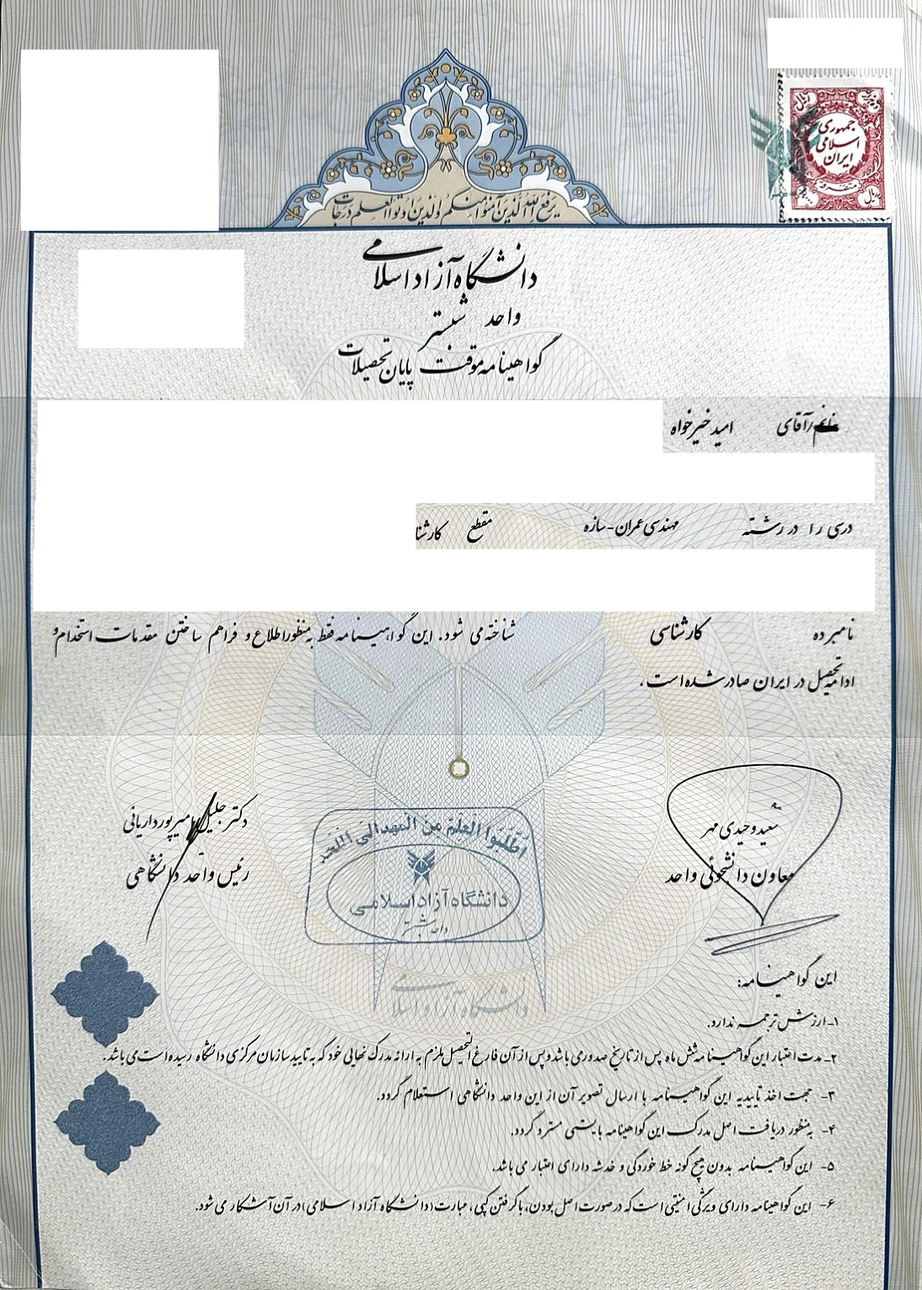
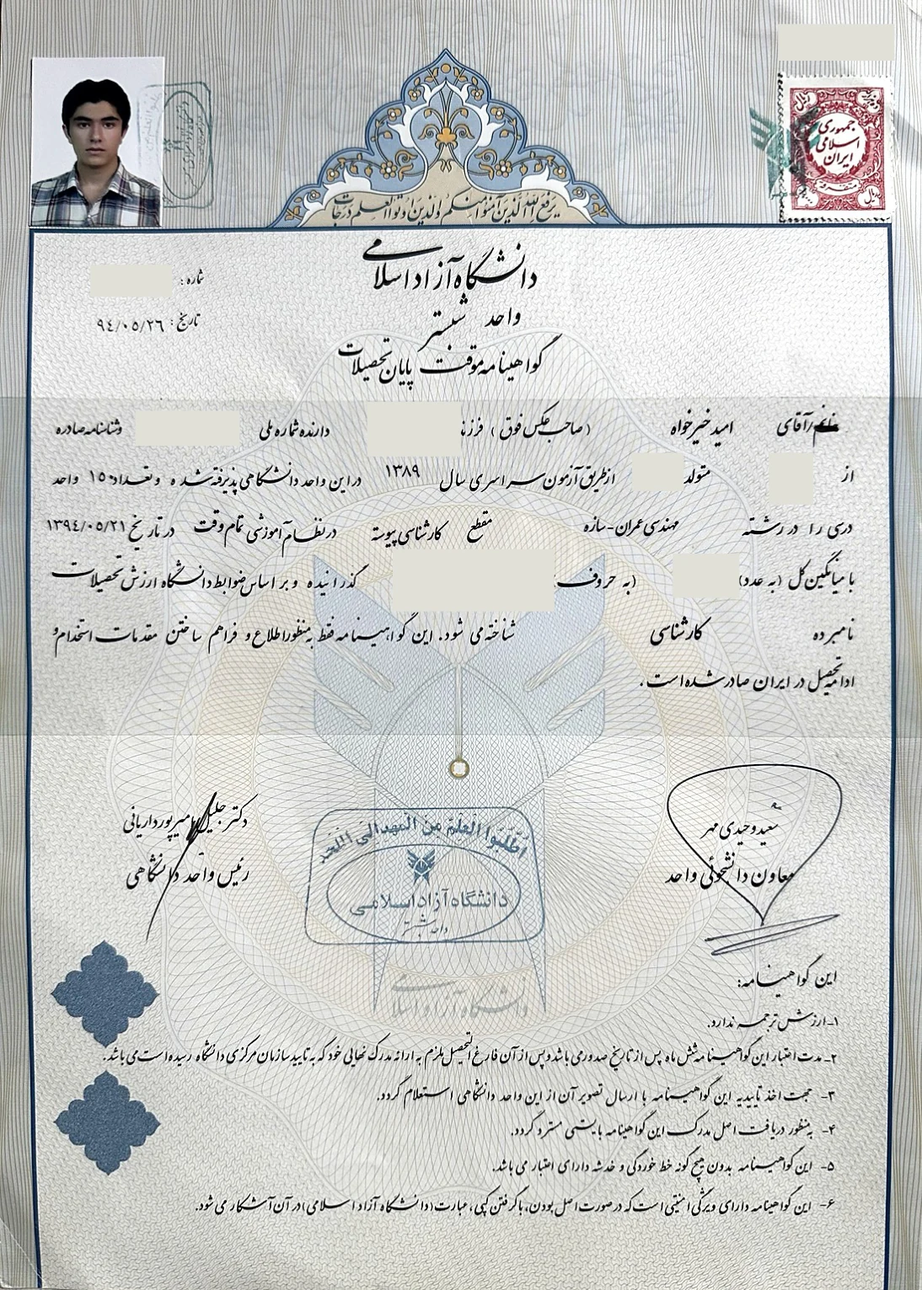
Refine diploma redactions and integrate credentials into About with digital focus

Changed region(s): [[0.0311, 0.307, 0.9634, 0.4912], [0.0, 0.0307, 0.2797, 0.2763], [0.808, 0.0, 0.9945, 0.0614]]

diff --git a/index.html b/index.html
@@ -324,7 +324,7 @@ main,.scene,.hub-body,.worlds,.bk-wrap,.iletisim-wrap,.kesifet-wrap{width:100%;m
 .civil-article:focus-visible{outline:2px solid var(--gold);outline-offset:5px}
 @media(max-width:700px){.civil-grid{grid-template-columns:1fr}.civil-article{padding:24px}}
 </style>
-<link href="site-refinement.css?v=20260916-credentials" rel="stylesheet"/><noscript><style>.scene{display:block!important;opacity:1!important;transform:none!important}.hero-avatar,.hero-tag,.hero-lead,.hero-stats,.hero-arch,.worlds-head,.wcard,.hub-contact{opacity:1!important;transform:none!important}.hero-h .ln>span{transform:none!important}#menuBtn,.article-search,.art-filters,.result-count{display:none!important}</style></noscript></head>
+<link href="site-refinement.css?v=20260916-about-v2" rel="stylesheet"/><noscript><style>.scene{display:block!important;opacity:1!important;transform:none!important}.hero-avatar,.hero-tag,.hero-lead,.hero-stats,.hero-arch,.worlds-head,.wcard,.hub-contact{opacity:1!important;transform:none!important}.hero-h .ln>span{transform:none!important}#menuBtn,.article-search,.art-filters,.result-count{display:none!important}</style></noscript></head>
 <body><a class="skip-link" href="#main-content">رفتن به محتوای اصلی</a>
 <!-- PARTICLES -->
 <div class="particles" id="particles"></div>
@@ -336,7 +336,6 @@ main,.scene,.hub-body,.worlds,.bk-wrap,.iletisim-wrap,.kesifet-wrap{width:100%;m
 <a class="menu-item" data-goto="civil" href="#civil">مهندسی عمران</a>
 <a class="menu-item" data-goto="universiteler" href="#universiteler">دانشگاهها</a>
 <a class="menu-item" data-goto="benkimim" href="#benkimim">درباره من</a>
-<a class="menu-item" data-goto="credentials" href="#credentials">سوابق و مدارک</a>
 <a class="menu-item" data-goto="iletisim" href="#iletisim">تماس</a>
 <div class="menu-socials">
 <a href="mailto:omid@omidkheirkhah.com">ایمیل</a>
@@ -346,7 +345,7 @@ main,.scene,.hub-body,.worlds,.bk-wrap,.iletisim-wrap,.kesifet-wrap{width:100%;m
 <!-- NAV -->
 <nav aria-label="پیمایش اصلی" class="site-nav">
 <a data-goto="hub" href="#hub" id="logo">دکتر امید خیرخواه</a>
-<div class="desktop-nav"><a data-goto="kesifet" href="#kesifet">مقالات</a><a data-goto="universiteler" href="#universiteler">راهنمای تحصیل</a><a data-goto="benkimim" href="#benkimim">درباره من</a><a data-goto="credentials" href="#credentials">سوابق و مدارک</a><a data-goto="iletisim" href="#iletisim">تماس</a></div><div class="lang-switch">
+<div class="desktop-nav"><a data-goto="kesifet" href="#kesifet">مقالات</a><a data-goto="universiteler" href="#universiteler">راهنمای تحصیل</a><a data-goto="benkimim" href="#benkimim">درباره من</a><a data-goto="iletisim" href="#iletisim">تماس</a></div><div class="lang-switch">
 <a href="https://omidkheirkhah.com">TR</a>
 <a class="active" href="https://fa.omidkheirkhah.com">FA</a>
 </div>
@@ -373,6 +372,7 @@ main,.scene,.hub-body,.worlds,.bk-wrap,.iletisim-wrap,.kesifet-wrap{width:100%;m
 </h1>
 <p class="hero-lead">دندانپزشکی، مهندسی و نوآوری در ظاهر دنیاهای متفاوتیاند؛ اما همگی با یک پرسش آغاز میشوند: مسئله واقعاً از کجا ریشه میگیرد؟ اینجا آموختهها و تجربههایم را شفاف، کاربردی و مستند به اشتراک میگذارم.</p><div class="hero-actions"><a class="button-primary" data-goto="kesifet" href="#kesifet">مطالعهٔ مقالهها</a><a class="button-secondary" data-goto="iletisim" href="#iletisim">شروع گفتوگو</a><p class="hero-note">از شناخت مسئله تا انتخاب آگاهانه</p></div>
 </div>
+<a class="digital-home-banner" data-goto="benkimim" href="#benkimim"><div><span>طراحی سایت · برندینگ · فناوری</span><h2>برای حضور دیجیتال کسبوکارتان، از ایده شروع کنیم.</h2><p>طراحی تجربهٔ کاربری، معرفی برند و راهبری پروژههای دیجیتال.</p></div><strong>آشنایی با زمینههای همکاری <span aria-hidden="true">←</span></strong></a>
 <div class="worlds">
 <div class="worlds-head wrap" id="worldsHead">
 <p class="s-label">چه میکنم، چطور فکر میکنم</p>
@@ -578,10 +578,17 @@ main,.scene,.hub-body,.worlds,.bk-wrap,.iletisim-wrap,.kesifet-wrap{width:100%;m
 <p class="bk-text">در ۱۳۸۹ وارد رشته مهندسی عمران شدم. مهندسی تفکر تحلیلی و حل مسئله سیستماتیک را به من یاد داد. در مرحله پایاننامه کارشناسی ارشد، به صدای درونم گوش دادم و از صفر وارد دندانپزشکی شدم. دو رشته کاملاً متفاوت — اما هر دو همان سؤال را میپرسیدند: <em>سیستمها چطور کار میکنند؟</em></p>
 <p class="bk-text">در سال ۱۳۹۶ تحصیل دندانپزشکی را آغاز کردم و در ۱۴۰۱ فارغالتحصیل شدم. همان سال برنامه دکترا در جراحی دهان و فک و صورت را شروع کردم — که هنوز ادامه دارد.</p>
 <p class="bk-text" style="font-size:.8rem;color:var(--tx-d)">📍 ترکیه · ایران · قبرس</p>
-<a class="button-secondary" data-goto="credentials" href="#credentials">مشاهدهٔ سوابق حرفهای و مدارک</a>
+<p class="about-contents">در همین صفحه: فعالیتهای دیجیتال، سوابق حرفهای، تحصیلات و تصاویر مدارک.</p>
 </div>
 <div>
-<div class="timeline">
+<section class="digital-spotlight" aria-labelledby="digital-title">
+<p class="resume-kicker">طراحی · برندینگ · راهکارهای دیجیتال</p>
+<h2 id="digital-title">ایدهٔ شما،<br/><em>یک تجربهٔ دیجیتال روشن.</em></h2>
+<p class="digital-intro">در کنار دندانپزشکی و مهندسی، در برنامهریزی و راهبری پروژههای دیجیتال فعالیت میکنم؛ با توجه همزمان به ظاهر، پیام برند و کارایی محصول.</p>
+<div class="digital-services"><div><h3>طراحی سایت و تجربهٔ کاربری</h3><p>ساختار روشن، ظاهر هماهنگ و مسیر ساده برای ارتباط مخاطب با کسبوکار.</p></div><div><h3>برندینگ و ارتباطات</h3><p>هویت بصری، معرفی خدمات و پیام منسجم در نقاط تماس دیجیتال.</p></div><div><h3>نرمافزار و راهکارهای هوشمند</h3><p>طراحی خدمات و هماهنگی پروژههای وب، نرمافزار و کاربردهای هوش مصنوعی.</p></div></div>
+<a class="button-primary" data-goto="iletisim" href="#iletisim">گفتوگو دربارهٔ پروژهٔ دیجیتال</a>
+</section>
+<div class="timeline about-timeline">
 <div class="tl-item">
 <div class="tl-year">۱۴۰۱–</div>
 <div class="tl-c"><h4>دکترای جراحی دهان</h4><p>برنامه دکترا در قبرس شمالی. ادامه دارد.</p></div>
@@ -602,12 +609,11 @@ main,.scene,.hub-body,.worlds,.bk-wrap,.iletisim-wrap,.kesifet-wrap{width:100%;m
 </div>
 </div>
 </div>
-</section>
-<section class="scene" id="credentials" aria-labelledby="credentials-title">
+<section id="credentials" aria-labelledby="credentials-title">
 <div class="wrap credentials-wrap">
 <header class="credentials-header">
 <p class="bk-eyebrow">دکتر امید خیرخواه · سوابق حرفهای</p>
-<h1 id="credentials-title">از تجربه و تخصص<br/>تا <em>مدارک و دستاوردها.</em></h1>
+<h2 id="credentials-title">سوابق حرفهای<br/>و <em>مدارک و دستاوردها.</em></h2>
 <p class="credentials-lead">دندانپزشک و مهندس عمران؛ با تجربهٔ فعالیت در آموزش، بازاریابی و پروژههای میانرشتهای. اینجا مسیر تحصیلی، زمینههای همکاری و مدارک حرفهای من را در کنار هم میبینید.</p>
 <div class="credentials-domains" aria-label="حوزههای فعالیت"><span>سلامت</span><span>مهندسی</span><span>آموزش</span><span>فناوری</span></div>
 </header>
@@ -637,7 +643,7 @@ main,.scene,.hub-body,.worlds,.bk-wrap,.iletisim-wrap,.kesifet-wrap{width:100%;m
 <div class="certificate-grid">
 <figure class="certificate-card"><a class="certificate-image" href="assets/credentials/dentistry.webp" target="_blank" rel="noopener" aria-label="بازکردن تصویر مدرک دندانپزشکی در برگهٔ جدید"><img src="assets/credentials/dentistry.webp" width="1279" height="886" loading="lazy" decoding="async" alt="نسخهٔ عمومی مدرک دکترای حرفهای دندانپزشکی به نام امید خیرخواه"/></a><figcaption><span class="certificate-type">تحصیلات دانشگاهی · ۲۰۲۲</span><h3>دکترای حرفهای دندانپزشکی</h3><p>دانشگاه علوم سلامت و علوم اجتماعی قبرس؛ مدرک <bdi>Doctor of Dental Surgery (DDS)</bdi>.</p><a href="assets/credentials/dentistry.webp" target="_blank" rel="noopener">مشاهدهٔ تصویر کامل <span aria-hidden="true">↗</span></a></figcaption></figure>
 <figure class="certificate-card"><a class="certificate-image" href="assets/credentials/equivalency.webp" target="_blank" rel="noopener" aria-label="بازکردن تصویر گواهی معادلسازی در برگهٔ جدید"><img src="assets/credentials/equivalency.webp" width="1279" height="892" loading="lazy" decoding="async" alt="نسخهٔ عمومی گواهی معادلسازی مدرک دندانپزشکی امید خیرخواه از YÖK ترکیه"/></a><figcaption><span class="certificate-type">معادلسازی تحصیلی · ۲۰۲۵</span><h3>گواهی معادلسازی <bdi>YÖK</bdi></h3><p>صادرشده از شورای آموزش عالی ترکیه برای معادلسازی مدرک دندانپزشکی در نظام آموزش عالی این کشور.</p><a href="assets/credentials/equivalency.webp" target="_blank" rel="noopener">مشاهدهٔ تصویر کامل <span aria-hidden="true">↗</span></a></figcaption></figure>
-<figure class="certificate-card"><a class="certificate-image" href="assets/credentials/civil-engineering.webp" target="_blank" rel="noopener" aria-label="بازکردن تصویر مدرک مهندسی عمران در برگهٔ جدید"><img src="assets/credentials/civil-engineering.webp" width="1094" height="1531" loading="lazy" decoding="async" alt="نسخهٔ عمومی مدرک کارشناسی مهندسی عمران امید خیرخواه؛ اطلاعات هویتی و معدل حذف شده است"/></a><figcaption><span class="certificate-type">تحصیلات دانشگاهی · ۱۳۹۴</span><h3>کارشناسی مهندسی عمران ـ سازه</h3><p>دانشگاه آزاد اسلامی، واحد تبریز؛ پایهٔ دانشگاهی مسیر من در مهندسی و تحلیل سازه.</p><a href="assets/credentials/civil-engineering.webp" target="_blank" rel="noopener">مشاهدهٔ تصویر کامل <span aria-hidden="true">↗</span></a></figcaption></figure>
+<figure class="certificate-card"><a class="certificate-image" href="assets/credentials/civil-engineering.webp?v=portrait" target="_blank" rel="noopener" aria-label="بازکردن تصویر مدرک مهندسی عمران در برگهٔ جدید"><img src="assets/credentials/civil-engineering.webp?v=portrait" width="1094" height="1531" loading="lazy" decoding="async" alt="نسخهٔ عمومی مدرک کارشناسی مهندسی عمران امید خیرخواه؛ اطلاعات هویتی و معدل حذف شده است"/></a><figcaption><span class="certificate-type">تحصیلات دانشگاهی · ۱۳۹۴</span><h3>کارشناسی مهندسی عمران ـ سازه</h3><p>دانشگاه آزاد اسلامی، واحد تبریز؛ پایهٔ دانشگاهی مسیر من در مهندسی و تحلیل سازه.</p><a href="assets/credentials/civil-engineering.webp?v=portrait" target="_blank" rel="noopener">مشاهدهٔ تصویر کامل <span aria-hidden="true">↗</span></a></figcaption></figure>
 <figure class="certificate-card"><a class="certificate-image" href="assets/credentials/membership-history.webp" target="_blank" rel="noopener" aria-label="بازکردن تصویر سابقهٔ عضویت موقت در برگهٔ جدید"><img src="assets/credentials/membership-history.webp" width="1279" height="960" loading="lazy" decoding="async" alt="گواهی سابقهٔ عضویت موقت امید خیرخواه در اتاق دندانپزشکان قبرس ترک"/></a><figcaption><span class="certificate-type">سابقهٔ حرفهای</span><h3>سابقهٔ عضویت موقت حرفهای</h3><p>اتاق دندانپزشکان قبرس ترک. این گواهی مربوط به سابقهٔ عضویت موقت است و تأیید عضویت یا اعتبار فعلی نیست.</p><a href="assets/credentials/membership-history.webp" target="_blank" rel="noopener">مشاهدهٔ تصویر کامل <span aria-hidden="true">↗</span></a></figcaption></figure>
 <figure class="certificate-card"><a class="certificate-image" href="assets/credentials/aesthetics-training.webp" target="_blank" rel="noopener" aria-label="بازکردن تصویر گواهی دورهٔ آموزشی در برگهٔ جدید"><img src="assets/credentials/aesthetics-training.webp" width="1279" height="911" loading="lazy" decoding="async" alt="گواهی دورهٔ آموزشی بوتولینوم توکسین و فیلر پوستی به نام امید خیرخواه"/></a><figcaption><span class="certificate-type">آموزش تکمیلی · ۲۰۲۳</span><h3>دورهٔ بوتولینوم توکسین و فیلر پوستی</h3><p>گواهی پایان دورهٔ کاربرد در زیبایی پزشکی، از آکادمی دندانپزشکی <bdi>İDA</bdi>؛ برگزارشده در قبرس، ۷ و ۸ ژانویهٔ ۲۰۲۳.</p><a href="assets/credentials/aesthetics-training.webp" target="_blank" rel="noopener">مشاهدهٔ تصویر کامل <span aria-hidden="true">↗</span></a></figcaption></figure>
 <figure class="certificate-card"><a class="certificate-image" href="assets/credentials/invention.webp" target="_blank" rel="noopener" aria-label="بازکردن تصویر گواهی ثبت اختراع در برگهٔ جدید"><img src="assets/credentials/invention.webp" width="1116" height="1531" loading="lazy" decoding="async" alt="نسخهٔ عمومی گواهی ثبت اختراع محفظهای آتشخاموشکن اتوماتیک به نام امید خیرخواه"/></a><figcaption><span class="certificate-type">نوآوری و اختراع</span><h3>گواهی ثبت اختراع</h3><p>«محفظهای آتشخاموشکن اتوماتیک»؛ گواهی ثبت اختراع در ایران به نام امید خیرخواه.</p><a href="assets/credentials/invention.webp" target="_blank" rel="noopener">مشاهدهٔ تصویر کامل <span aria-hidden="true">↗</span></a></figcaption></figure>
@@ -645,7 +651,7 @@ main,.scene,.hub-body,.worlds,.bk-wrap,.iletisim-wrap,.kesifet-wrap{width:100%;m
 </section>
 <aside class="resume-contact"><div><h2>برای یک همکاری تازه گفتوگو کنیم.</h2><p>پروژههای سلامت، آموزش، مهندسی و راهکارهای دیجیتال.</p></div><a class="button-primary" data-goto="iletisim" href="#iletisim">ارتباط برای همکاری</a></aside>
 </div>
-</section><section class="scene" id="iletisim">
+</section></section><section class="scene" id="iletisim">
 <div class="wrap iletisim-wrap">
 <div class="iletisim-grid">
 <div>
@@ -795,5 +801,5 @@ main,.scene,.hub-body,.worlds,.bk-wrap,.iletisim-wrap,.kesifet-wrap{width:100%;m
 <!-- CONTACT -->
 <!-- ARTICLES -->
 <!-- LAB/INNOVATION -->
-<script defer="" src="site.js?v=20260916-credentials"></script></body>
+<script defer="" src="site.js?v=20260916-about-v2"></script></body>
 </html>

diff --git a/site-refinement.css b/site-refinement.css
@@ -9,7 +9,9 @@ body{font-weight:400}button,input,select,textarea{font:inherit}button,a,input,se
 @media(max-width:1000px){.desktop-nav{display:none}.lang-switch{margin-inline-start:auto}.worlds-list,.art-grid{grid-template-columns:repeat(2,minmax(0,1fr))}.iletisim-grid{gap:32px}.site-nav{padding:0 24px}.hero-arch{width:210px;height:210px}.hero{text-align:right}.hero-avatar{margin-top:16px}.hero-actions{justify-content:flex-start}}
 @media(max-width:640px){:root{--wrap:calc(100% - 36px);--nav-h:72px}.site-nav{padding:0 16px;gap:10px}#logo{font-size:.86rem}.lang-switch{gap:5px}.lang-switch a{min-width:32px;min-height:38px;font-size:.72rem}.hero{padding-top:26px}.hero-arch{width:150px;height:150px;margin:0 auto 12px}.hero-avatar{width:66px;height:66px;margin-bottom:18px}.hero-lead{font-size:.97rem}.hero-h{font-size:2.25rem!important}.hero-actions{width:100%}.hero-actions>a{flex:1;padding:12px 10px;font-size:.86rem}.worlds-list,.art-grid{grid-template-columns:1fr}.wcard{min-height:0;padding:24px}.wcard-name{font-size:1.3rem}.worlds-head{margin-bottom:24px}.hub-contact{padding:24px}.hub-contact h3{font-size:1.5rem}.contact-form,.uni-form{padding:20px}.cf-row{display:grid;grid-template-columns:1fr;gap:20px}.iletisim-grid{grid-template-columns:1fr}.iletisim-wrap{padding-top:110px!important}.uni-form{grid-template-columns:1fr!important}.art-row{min-height:0;padding:24px}.art-title{font-size:1.15rem}.article-search{margin-top:20px}.search-controls{flex-wrap:wrap}.menu-socials{flex-wrap:wrap}.uni-card{padding:24px!important}.uni-card-badge{font-size:2.4rem}.uni-cta-box{padding:24px 16px!important}}
 @media(prefers-reduced-motion:reduce){*,*::before,*::after{animation:none!important;transition:none!important;scroll-behavior:auto!important}.hero-avatar,.hero-tag,.hero-lead,.hero-stats,.hero-arch,.worlds-head,.wcard,.hub-contact,.menu-item{opacity:1!important;transform:none!important}.hero-h .ln>span{transform:none!important}.scene.active{opacity:1;transform:none}}
-#credentials{background:#0b0b0a}.credentials-wrap{padding:calc(var(--nav-h) + 64px) 0 80px}.credentials-header{max-width:850px;padding-bottom:46px}.credentials-header h1{font-size:clamp(2rem,4.8vw,3.8rem);font-weight:400;line-height:1.65;margin:16px 0 22px}.credentials-header h1 em{color:var(--gold);font-style:normal}.credentials-lead{color:var(--tx-d);font-size:1.02rem;line-height:2.15;max-width:760px}.credentials-domains{display:flex;flex-wrap:wrap;gap:9px;margin-top:24px}.credentials-domains span{border:1px solid #474132;border-radius:30px;padding:6px 17px;font-size:.82rem;color:#d9c89d}.resume-grid{display:grid;grid-template-columns:repeat(2,minmax(0,1fr));gap:22px}.resume-panel{padding:30px;border:1px solid #353128;border-radius:12px;background:linear-gradient(140deg,#171612,#10100f);min-width:0}.resume-kicker{color:var(--gold);font-size:.8rem;margin-bottom:10px}.resume-panel h2{font-size:1.3rem;font-weight:500;line-height:1.9;margin-bottom:24px}.resume-entry+.resume-entry{border-top:1px solid #343027;margin-top:22px;padding-top:22px}.resume-entry h3{font-size:1rem;font-weight:500;line-height:1.9;margin-bottom:8px}.resume-entry p{color:var(--tx-d);font-size:.92rem;line-height:2.05}.resume-year{display:block;color:var(--gold);font-size:.8rem;margin-bottom:7px}.resume-text-link{display:inline-flex;align-items:center;min-height:44px;color:var(--gold);font-size:.88rem;margin-top:6px;text-underline-offset:5px}.resume-text-link:hover{text-decoration:underline}.resume-skills{list-style:none;display:flex;flex-wrap:wrap;gap:10px;margin:0;padding:0}.resume-skills li{padding:8px 12px;border:1px solid #454033;background:#191813;border-radius:6px;font-size:.84rem;color:#d7d1c5;line-height:1.9}.resume-languages{margin:0}.resume-languages>div{display:flex;justify-content:space-between;gap:20px;padding:12px 0;border-bottom:1px solid #343027;font-size:.92rem}.resume-languages>div:last-child{border-bottom:0}.resume-languages dd{margin:0;color:var(--tx-d)}.credentials-gallery{padding-top:68px}.credentials-gallery-heading{max-width:760px;margin-bottom:30px}.credentials-gallery-heading h2{font-size:clamp(1.7rem,3vw,2.5rem);font-weight:400;line-height:1.7;margin-bottom:14px}.credentials-gallery-heading>p:last-child{color:var(--tx-d);line-height:2.1;font-size:.93rem}.certificate-grid{display:grid;grid-template-columns:repeat(2,minmax(0,1fr));gap:24px}.certificate-card{margin:0;min-width:0;border:1px solid #3a352a;border-radius:12px;background:#14130f;overflow:hidden;display:flex;flex-direction:column}.certificate-image{display:flex;align-items:center;justify-content:center;padding:18px;background:#eeece7;aspect-ratio:4/3;overflow:hidden}.certificate-image img{display:block;width:100%;height:100%;max-height:100%;object-fit:contain}.certificate-image:focus-visible{outline-offset:-6px}.certificate-card figcaption{padding:25px;display:flex;flex-direction:column;flex:1}.certificate-type{color:var(--gold);font-size:.77rem}.certificate-card h3{font-size:1.18rem;font-weight:500;line-height:1.9;margin:10px 0}.certificate-card p{color:var(--tx-d);font-size:.9rem;line-height:2.05;margin-bottom:18px}.certificate-card figcaption>a{display:flex;align-items:center;justify-content:space-between;margin-top:auto;padding:12px 0 0;border-top:1px solid #3b3426;min-height:44px;font-size:.88rem;color:#e0c990}.certificate-card figcaption>a:hover{text-decoration:underline;text-underline-offset:5px}.resume-contact{display:flex;align-items:center;justify-content:space-between;gap:24px;margin-top:50px;padding:30px;border:1px solid #51462d;border-radius:12px;background:#1b1811}.resume-contact h2{font-size:1.3rem;font-weight:500;line-height:1.9;margin-bottom:6px}.resume-contact p{font-size:.92rem;color:var(--tx-d);line-height:2}.resume-contact .button-primary{flex-shrink:0}
+#credentials{background:#0b0b0a}.credentials-wrap{padding:30px 0 80px}.credentials-header{max-width:850px;padding-bottom:46px}.credentials-header h2{font-size:clamp(2rem,4.8vw,3.8rem);font-weight:400;line-height:1.65;margin:16px 0 22px}.credentials-header h2 em{color:var(--gold);font-style:normal}.credentials-lead{color:var(--tx-d);font-size:1.02rem;line-height:2.15;max-width:760px}.credentials-domains{display:flex;flex-wrap:wrap;gap:9px;margin-top:24px}.credentials-domains span{border:1px solid #474132;border-radius:30px;padding:6px 17px;font-size:.82rem;color:#d9c89d}.resume-grid{display:grid;grid-template-columns:repeat(2,minmax(0,1fr));gap:22px}.resume-panel{padding:30px;border:1px solid #353128;border-radius:12px;background:linear-gradient(140deg,#171612,#10100f);min-width:0}.resume-kicker{color:var(--gold);font-size:.8rem;margin-bottom:10px}.resume-panel h2{font-size:1.3rem;font-weight:500;line-height:1.9;margin-bottom:24px}.resume-entry+.resume-entry{border-top:1px solid #343027;margin-top:22px;padding-top:22px}.resume-entry h3{font-size:1rem;font-weight:500;line-height:1.9;margin-bottom:8px}.resume-entry p{color:var(--tx-d);font-size:.92rem;line-height:2.05}.resume-year{display:block;color:var(--gold);font-size:.8rem;margin-bottom:7px}.resume-text-link{display:inline-flex;align-items:center;min-height:44px;color:var(--gold);font-size:.88rem;margin-top:6px;text-underline-offset:5px}.resume-text-link:hover{text-decoration:underline}.resume-skills{list-style:none;display:flex;flex-wrap:wrap;gap:10px;margin:0;padding:0}.resume-skills li{padding:8px 12px;border:1px solid #454033;background:#191813;border-radius:6px;font-size:.84rem;color:#d7d1c5;line-height:1.9}.resume-languages{margin:0}.resume-languages>div{display:flex;justify-content:space-between;gap:20px;padding:12px 0;border-bottom:1px solid #343027;font-size:.92rem}.resume-languages>div:last-child{border-bottom:0}.resume-languages dd{margin:0;color:var(--tx-d)}.credentials-gallery{padding-top:68px}.credentials-gallery-heading{max-width:760px;margin-bottom:30px}.credentials-gallery-heading h2{font-size:clamp(1.7rem,3vw,2.5rem);font-weight:400;line-height:1.7;margin-bottom:14px}.credentials-gallery-heading>p:last-child{color:var(--tx-d);line-height:2.1;font-size:.93rem}.certificate-grid{display:grid;grid-template-columns:repeat(2,minmax(0,1fr));gap:24px}.certificate-card{margin:0;min-width:0;border:1px solid #3a352a;border-radius:12px;background:#14130f;overflow:hidden;display:flex;flex-direction:column}.certificate-image{display:flex;align-items:center;justify-content:center;padding:18px;background:#eeece7;aspect-ratio:4/3;overflow:hidden}.certificate-image img{display:block;width:100%;height:100%;max-height:100%;object-fit:contain}.certificate-image:focus-visible{outline-offset:-6px}.certificate-card figcaption{padding:25px;display:flex;flex-direction:column;flex:1}.certificate-type{color:var(--gold);font-size:.77rem}.certificate-card h3{font-size:1.18rem;font-weight:500;line-height:1.9;margin:10px 0}.certificate-card p{color:var(--tx-d);font-size:.9rem;line-height:2.05;margin-bottom:18px}.certificate-card figcaption>a{display:flex;align-items:center;justify-content:space-between;margin-top:auto;padding:12px 0 0;border-top:1px solid #3b3426;min-height:44px;font-size:.88rem;color:#e0c990}.certificate-card figcaption>a:hover{text-decoration:underline;text-underline-offset:5px}.resume-contact{display:flex;align-items:center;justify-content:space-between;gap:24px;margin-top:50px;padding:30px;border:1px solid #51462d;border-radius:12px;background:#1b1811}.resume-contact h2{font-size:1.3rem;font-weight:500;line-height:1.9;margin-bottom:6px}.resume-contact p{font-size:.92rem;color:var(--tx-d);line-height:2}.resume-contact .button-primary{flex-shrink:0}
 @media(min-width:1001px) and (max-width:1160px){.desktop-nav{gap:14px;font-size:.8rem}.site-nav{gap:16px}}
-@media(max-width:700px){.credentials-wrap{padding-top:calc(var(--nav-h) + 36px)}.credentials-header{padding-bottom:30px}.credentials-header h1{font-size:2rem}.resume-grid,.certificate-grid{grid-template-columns:1fr;gap:18px}.resume-panel{padding:23px}.credentials-gallery{padding-top:44px}.certificate-image{padding:12px}.certificate-card figcaption{padding:22px}.resume-contact{flex-direction:column;align-items:stretch;padding:24px;margin-top:30px}.resume-contact h2{font-size:1.15rem}}
+@media(max-width:700px){.credentials-wrap{padding-top:20px}.credentials-header{padding-bottom:30px}.credentials-header h2{font-size:2rem}.resume-grid,.certificate-grid{grid-template-columns:1fr;gap:18px}.resume-panel{padding:23px}.credentials-gallery{padding-top:44px}.certificate-image{padding:12px}.certificate-card figcaption{padding:22px}.resume-contact{flex-direction:column;align-items:stretch;padding:24px;margin-top:30px}.resume-contact h2{font-size:1.15rem}}
 @media print{.site-nav,#menuOverlay,.hero-arch,.particles{display:none!important}body{background:white;color:black}.scene.active{opacity:1}#credentials{background:white;color:black}.resume-panel,.certificate-card,.resume-contact{background:white;color:black;break-inside:avoid}.credentials-wrap{padding-top:0}.credentials-lead,.resume-entry p,.certificate-card p,.resume-contact p,.credentials-gallery-heading>p:last-child,.resume-languages dd{color:#333}}
+
+.digital-spotlight{padding:30px;background:linear-gradient(145deg,#282319,#14130f);border:1px solid #8b7342;border-radius:14px}.digital-spotlight h2{font-size:clamp(1.55rem,2.5vw,2.2rem);font-weight:400;line-height:1.7;margin:15px 0}.digital-spotlight h2 em{font-style:normal;color:var(--gold)}.digital-intro{font-size:.93rem;line-height:2.1;color:#d3cdbf}.digital-services{margin:24px 0}.digital-services>div{border-top:1px solid #52452e;padding:15px 0}.digital-services h3{font-size:1rem;font-weight:500;margin-bottom:5px}.digital-services p{font-size:.86rem;line-height:2;color:#bfb8a8}.digital-spotlight .button-primary{width:100%;font-size:.9rem}.about-timeline{margin-top:35px}.about-contents{font-size:.85rem;line-height:2;color:var(--gold);border-top:1px solid #49402e;padding-top:18px}.digital-home-banner{display:flex;align-items:center;justify-content:space-between;gap:30px;margin:30px 0 0;padding:30px 34px;border:1px solid #8b7342;border-radius:12px;background:linear-gradient(115deg,#15140f,#302719);color:#eee6d3}.digital-home-banner>div>span{color:var(--gold);font-size:.8rem}.digital-home-banner h2{font-size:clamp(1.2rem,2.2vw,1.7rem);line-height:1.9;font-weight:500;margin:10px 0}.digital-home-banner p{font-size:.9rem;color:#c6bcaa;line-height:2}.digital-home-banner strong{font-size:.88rem;font-weight:500;white-space:nowrap;color:var(--gold)}.digital-home-banner:hover{border-color:#e2c77f;background:#292316}@media(max-width:700px){.digital-spotlight{padding:23px}.digital-home-banner{padding:24px;flex-direction:column;align-items:flex-start;gap:20px}.digital-home-banner strong{white-space:normal}.digital-spotlight h2{font-size:1.6rem}}

diff --git a/site.js b/site.js
@@ -35,7 +35,7 @@ function applyArticleCategory(cat='all'){
 }
 function readRoute(){
   const [path,query='']=location.hash.slice(1).split('?');const match=path.match(/^kesifet(?:-(all|dental|civil))?$/);
-  const id=match?'kesifet':path;const target=document.getElementById(id);
+  const id=match?'kesifet':path==='credentials'?'benkimim':path;const target=document.getElementById(id);
   return {id:target?.classList.contains('scene')?id:'hub',cat:match?.[1]||'all',q:new URLSearchParams(query).get('q')||''};
 }
 function setScene(id,{cat='all',q='',focus=false}={}){

diff --git a/scripts/validate-credentials.py b/scripts/validate-credentials.py
@@ -24,6 +24,6 @@ for entry in manifest['files']:
     assert data[12:16] == b'VP8 ', f'Unexpected chunk: {path}'
     chunk_size = struct.unpack('<I', data[16:20])[0]
     assert len(data) == 20 + chunk_size + chunk_size % 2
-    assert f'src="{path}"' in index and f'href="{path}"' in index
+    assert f'src="{path}' in index and f'href="{path}' in index
 assert 'cv-private' not in index and 'sanitized-intermediate' not in index
 print('PASS: six reviewed opaque raster images; hashes, complete containers, no metadata or embedded originals; gallery uses only reviewed assets.')

diff --git a/docs/credentials-release.md b/docs/credentials-release.md
@@ -11,7 +11,7 @@ described as training. No new clinical licence or specialist qualification is cl
 ## Privacy review
 
 - Reviewed all six document scans and all six final exported images visually.
-- Removed portrait, parent name, birth information, nationality, student/identity
+- Removed parent name, birth information, nationality, student/identity
   numbers, GPA, address, registration/serial identifiers, barcode and QR code
   where present. Degree titles, holder name and issuer details remain.
 - Redaction was applied to the PDF image pixels before raster export. Fresh RGB
@@ -31,3 +31,12 @@ described as training. No new clinical licence or specialist qualification is cl
 
 The checks validate file identity and structure; they do not independently detect
 unredacted personal text in a new image. The originals remain unchanged privately.
+
+## Requested refinement
+
+The civil diploma portrait is restored at the holder's explicit request. Only
+eight small sensitive-value areas are redacted; academic dates and document text
+remain. Re-reviewed the final raster and updated its integrity hash.
+The full profile and gallery now appear inline in About. The old credentials
+route resolves to About. Digital work has a prominent home banner and an About
+panel describing website design, branding and software collaboration.
